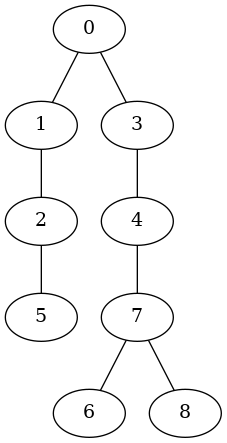
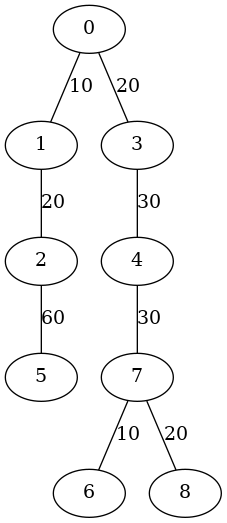
edge cost

diff --git a/dijkastra.py b/dijkastra.py
@@ -8,9 +8,10 @@ def dijkstra(G, s):
     pred = [None] * V 
     S = []
     dist[s] = 0
-    
+    c = 0 
     Q = [(s, 0)]
     while len(S) < V:
+        c += 1
         x = Q.pop(0)[0]
         while x in S:
             # print(f'pop')
@@ -22,6 +23,7 @@ def dijkstra(G, s):
                 Q = sorted(Q, key= lambda x :x[1])
                 pred[i] = x
         S.append(x)
+        print(f'{50 * "*"} \n i{c}:\n S {S} \n Dist {dist}\n pred {pred}')
     return pred
 
 if __name__ == "__main__":
@@ -30,7 +32,7 @@ if __name__ == "__main__":
     
     G = [[ 0 , 10 , 0 , 20 , 0 , 0 , 0 , 0 , 0] ,
         [ 10 , 0 , 20 , 0 ,100 , 0 , 0 , 0 , 0] ,
-        [ 0 , 20 , 0 , 0 , 0 , 60 , 0 , 0 , 0] ,
+        [ 0 , 20 , 0 , 0 , 0 , 50 , 0 , 0 , 0] ,
         [ 20 , 0 , 0 , 0 , 30 , 0 ,120 , 0 , 0] ,
         [ 0 ,100 , 0 , 30 , 0 , 70 ,100 , 30 , 80] ,
         [ 0 , 0 , 60 , 0 , 70 , 0 , 0 , 0 ,100] ,
@@ -38,15 +40,34 @@ if __name__ == "__main__":
         [ 0 , 0 , 0 , 0 , 30 , 0 , 10 , 0 , 20] ,
         [ 0 , 0 , 0 , 0 , 80 ,100 , 0 , 20 , 0]]
 
-    pred = dijkstra(G,0)
+    D = [[ 0 , 10 , 0 , 5 , 0 , 0 , 0 , 0 , 0] ,
+        [ 10 , 0 , 10 , 0 ,20 , 0 , 0 , 0 , 0] ,
+        [ 0 , 10 , 0 , 0 , 0 , 25 , 0 , 0 , 0] ,
+        [ 5 , 0 , 0 , 0 , 30 , 0 ,10 , 0 , 0] ,
+        [ 0 ,20 , 0 , 30 , 0 , 10 ,0 , 50 , 0] ,
+        [ 0 , 0 , 25 , 0 , 10 , 0 , 0 , 0 ,60] ,
+        [ 0 , 0 , 0 ,10 ,0 , 0 , 0 , 5 , 0] ,
+        [ 0 , 0 , 0 , 0 , 50 , 0 , 5 , 0 , 10] ,
+        [ 0 , 0 , 0 , 0 , 0 ,60 , 0 , 10 , 0]]
 
-    print(f'pred {pred}')
+    pred = dijkstra(G,0)
+    p = dijkstra(D,4)
+    print(f'\n\npred {pred} \n p {p}')
 
 
     g = graphviz.Graph('G')
 
     for i in range(len(pred)):
         if pred[i] is not None:
-            g.edge(str(pred[i]),str(i))
+            g.edge(str(pred[i]),str(i), label=str(G[i][pred[i]]))
         
     g.render("G", format="png")
+
+
+    d = graphviz.Graph('D')
+
+    for i in range(len(p)):
+        if p[i] is not None:
+            d.edge(str(p[i]),str(i), label=str(D[i][p[i]]))
+        
+    d.render("D", format="png")

diff --git a/bfs.py b/bfs.py
@@ -1,41 +1,55 @@
+#!/usr/bin/python3
+
+
 def bfs(EL,n,s):
     Q = [s]
     D = [False] * n
     D[s] = True
     V = [s]
+    c = f = w = 0
     print('Q = ' + str(Q))
     print('V = ' + str(V))
     #print('D = ' + str(D).replace('True','T').replace('False','F'))
     while len(Q) != 0:
+        w += 1
         x = Q.pop(0)
         for y in EL[x]:
+            c += 1
             if not D[y]:
+                f += 1
                 D[y] = True
                 V.append(y)
                 Q.append(y)
         print('Q = ' + str(Q))
         print('V = ' + str(V))
+        print('c = ' + str(c))
         #print('D = ' + str(D).replace('True','T').replace('False','F'))
-    return(V)
-EL = [
-    [1, 4, 5],
-    [0, 2, 6],
-    [1, 3, 6, 7],
-    [2],
-    [0, 8],
-    [0, 6, 8, 9],
-    [1, 2, 5, 11],
-    [2],
-    [4, 5, 13],
-    [5, 10],
-    [9, 14],
-    [6, 15],
-    [13],
-    [8, 12],
-    [10],
-    [11]
-]
-n = 16
-s = 0
-visited = bfs(EL,n,s)
-print('Visited = ' + str(visited))
+    return(V,(c,f,w))
+
+
+if __name__ == "__main__":    
+    EL = [
+        [1, 4, 5],
+        [0, 2, 6],
+        [1, 3, 6, 7],
+        [2],
+        [0, 8],
+        [0, 6, 8, 9],
+        [1, 2, 5, 11],
+        [2],
+        [4, 5, 13],
+        [5, 10],
+        [9, 14],
+        [6, 15],
+        [13],
+        [8, 12],
+        [10],
+        [11]
+    ]
+
+
+    A = [[1,2],[0,3,4],[0,5,6],[1,7,8],[1,9,10],[2,11,12],[2,13,14],[3],[3],[4],[4],[5],[5],[6],[6]]
+    n = 15
+    s = 0
+    visited, (c,f,w) = bfs(A,n,s)
+    print(f'Visited = {visited} for {c} if {f} while {w}')
